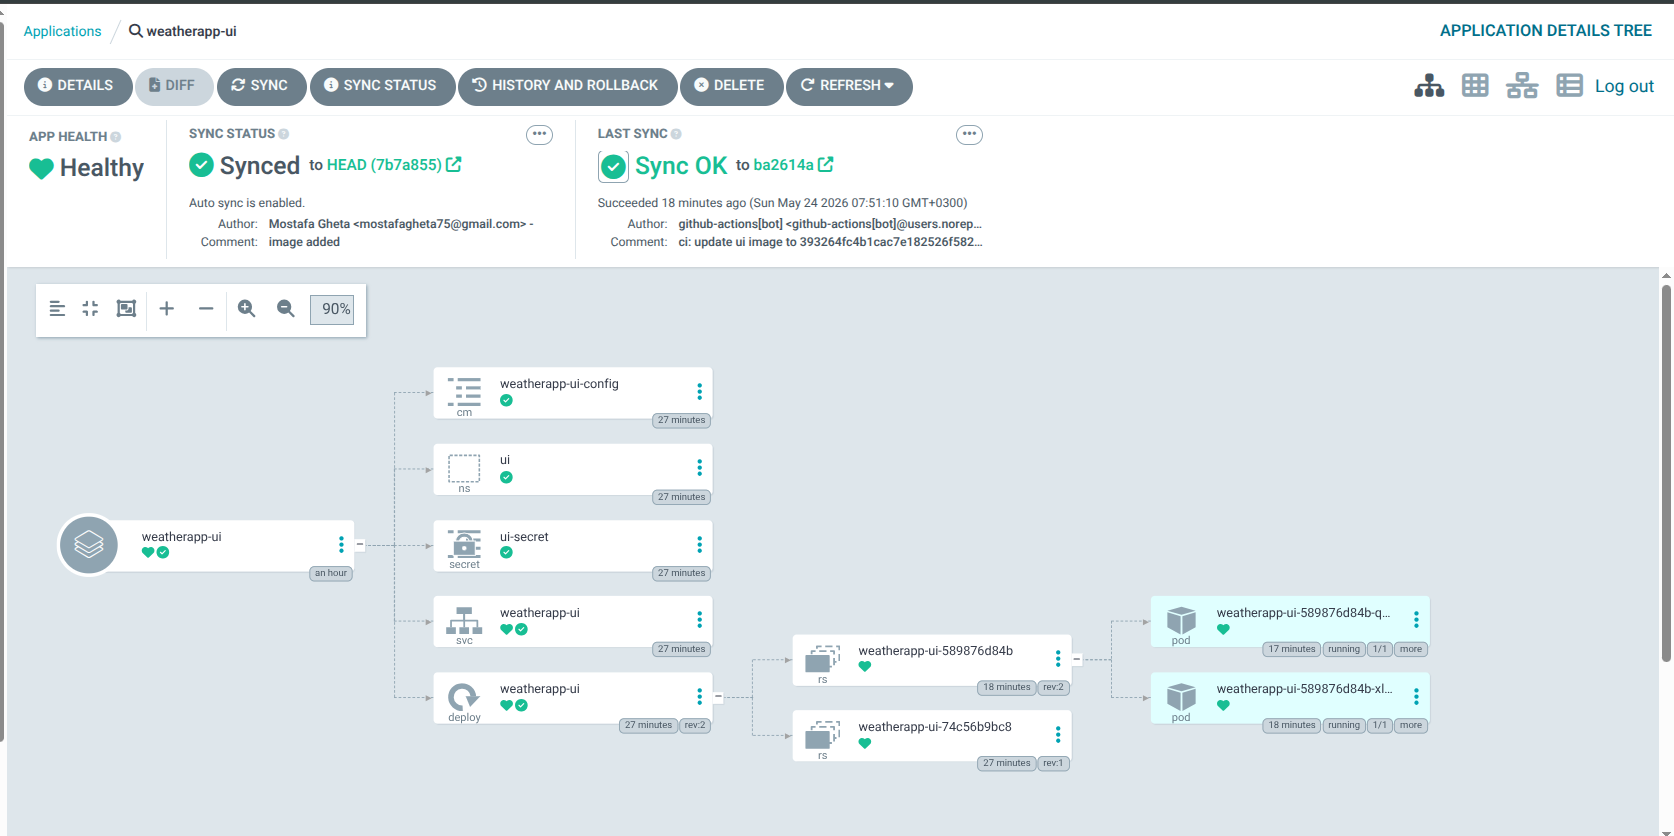
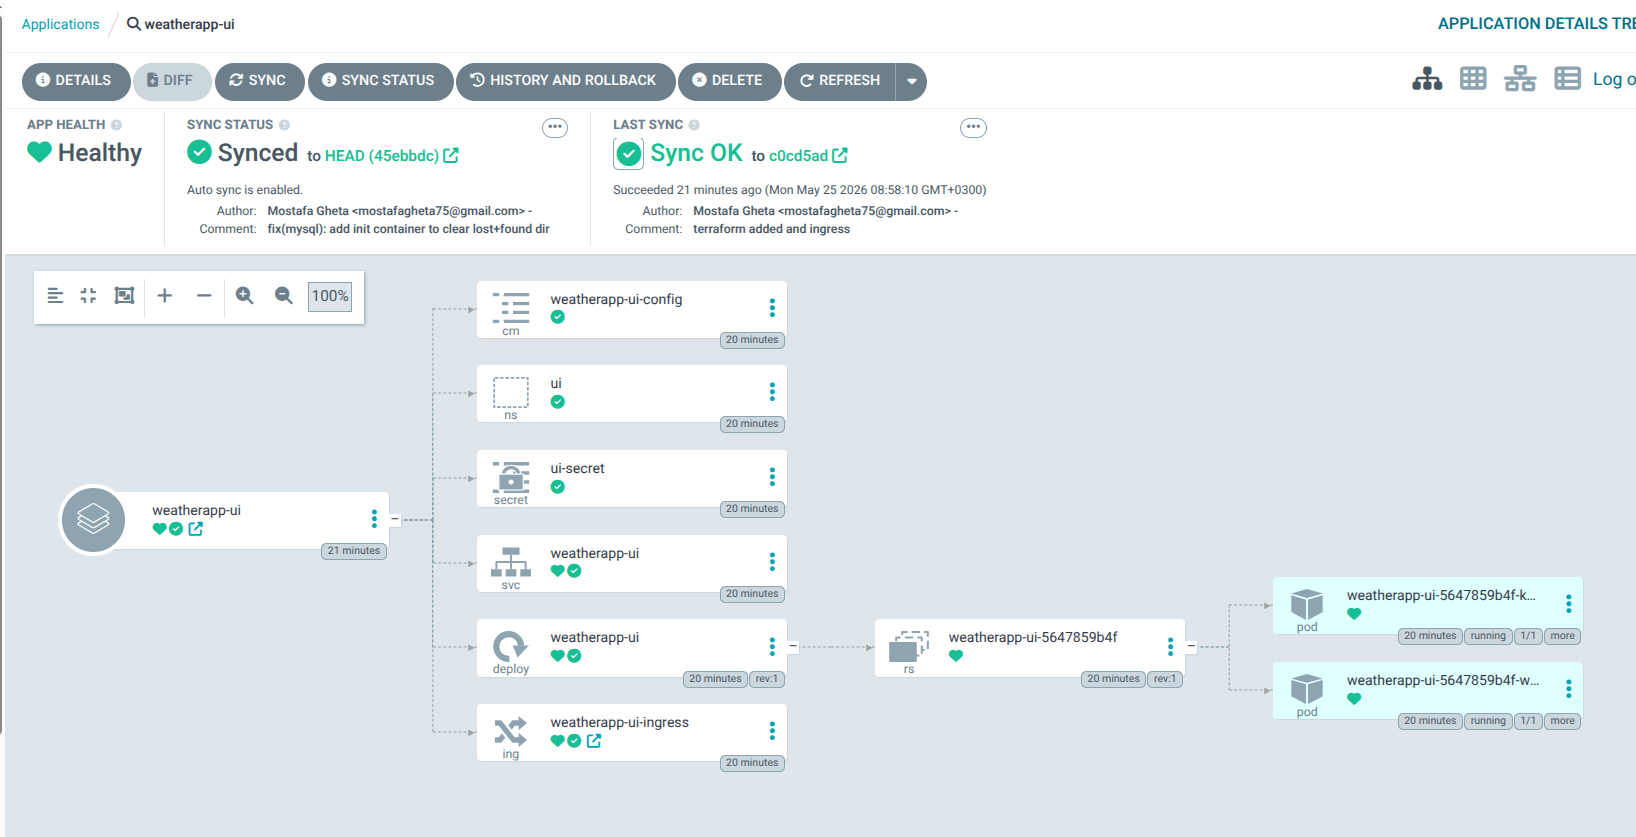
readme added

Changed region(s): [[0.0, 0.0, 1.0, 1.0], [0.2494, 0.4354, 0.3741, 0.4976], [0.5611, 0.1555, 0.5923, 0.1866]]

diff --git a/README.md b/README.md
@@ -1,121 +1,111 @@
-## WeatherApp (DevOps Project 4)
+# 🌦 WeatherApp: Advanced DevSecOps & Cloud-Native Deployment
 
-![Architecture](images/image.png)
+[![Architecture](images/image.png)](images/image.png)
 
-Overview
---------
-This repository contains a small multi-service Weather application used for DevOps exercises. It demonstrates service separation, containerization, CI/CD pipelines (GitHub Actions), static analysis (SonarQube), dependency scanning (OWASP Dependency-Check and Trivy), and Kubernetes manifests for deploying the services.
+A comprehensive, multi-service weather application demonstration project. This project showcases a modern cloud-native architecture, leveraging **Infrastructure as Code (Terraform)**, **DevSecOps Pipeline automation (GitHub Actions)**, and **GitOps-driven deployment (ArgoCD)** on **Google Kubernetes Engine (GKE)**.
 
-Services
---------
-- auth (Go): User authentication service that manages users and issues JWTs.
-  - Source: `auth/main/main.go`
-  - DB helper: `auth/authdb/authdb.go`
-  - Dockerfile: `auth/Dockerfile` (multi-stage build: golang builder -> minimal alpine runtime)
+---
 
-- UI (Node.js / Express): Frontend server serving static pages and interacting with auth and weather services.
-  - Source: `UI/app.js`, static UI in `UI/public`
-  - Package manifest: `UI/package.json`
-  - Dockerfile: `UI/Dockerfile`
+## 🏗 Architecture Overview
 
-- weather (Python / Flask): A small service that calls a third-party Weather API (RapidAPI) and returns current weather data.
-  - Source: `weather/main.py`
-  - Dependencies: `weather/requirements.txt`
+The application follows a microservices pattern, designed for scalability and separation of concerns:
 
-- mysql-init: SQL initialization script for MySQL used in local K8s / Docker environments.
-  - `mysql-init/init.sql` creates the `weatherapp` schema and `users` table.
+-   **Frontend (UI):** A Node.js & Express application providing a responsive dashboard for users.
+-   **Authentication (Auth):** A high-performance Go service managing user sessions and JWT-based security.
+-   **Weather Core:** A Python/Flask microservice that interacts with third-party Weather APIs (RapidAPI).
+-   **Database:** A Managed MySQL instance (via StatefulSet) for secure data persistence.
 
-Kubernetes manifests
---------------------
-Kubernetes manifests for each service live under `kubernetes/` and `K8S/` directories (the repo contains multiple K8s folders used for different deployment flows). Example manifests used in CI/CD are under `kubernetes/`:
+---
 
-- `kubernetes/authentication/deployment.yaml` and `service.yaml` — deployment/service for the auth service
-- `kubernetes/ui/*` — UI deployment/service/ingress
-- `kubernetes/weather/*` — weather deployment and service
+## 🛠 Technology Stack
 
-CI / CD (GitHub Actions)
-------------------------
-There are two main workflows in `.github/workflows/`:
+| Category | Tools & Technologies |
+| :--- | :--- |
+| **Cloud Provider** | Google Cloud Platform (GCP) |
+| **Infrastructure** | Terraform, Google Kubernetes Engine (GKE), VPC, Subnets |
+| **Microservices** | Go, Node.js (Express), Python (Flask) |
+| **Containerization** | Docker, Docker Hub |
+| **CI/CD** | GitHub Actions |
+| **GitOps** | ArgoCD, ArgoCD Image Updater |
+| **Security Scanning** | SonarQube, Trivy (Image Scan), OWASP Dependency-Check |
+| **Networking** | NGINX Ingress Controller, ClusterIP Services |
 
-- `ui-service.yml` — Serial pipeline for the UI service with these jobs:
-  1. build-and-test (npm ci, build, placeholder test)
- 2. sonar-scan (SonarQube analysis)
- 3. dependency-check (OWASP Dependency-Check)
- 4. docker-build (build Docker image, save as artifact)
- 5. trivy-scan (download artifact, docker load, scan image; uploads JSON report)
- 6. docker-push (download artifact, docker load, push to Docker Hub)
- 7. update-manifests (update K8s manifest image tags on `main`)
+---
 
-- `auth-service.yml` — Mirrors the UI pipeline but for the Go `auth` service:
-  - build-and-test (setup-go, go mod download, go build, go test)
-  - sonar-scan
-  - dependency-check
-  - docker-build (build image and save artifact)
-  - trivy-scan (download, load, scan, upload report)
-  - docker-push
+## 🚀 DevSecOps Pipeline
 
-CI Security & Diagnostics
-------------------------
-- Sonar: Workflows include SonarQube steps and print `.scannerwork/report-task.txt` for troubleshooting if the scanner fails to upload results.
-- Trivy: Workflows save the built Docker image as an artifact and load it into subsequent jobs. This avoids problems where Trivy can't find the image in the runner or pull remote images (MANIFEST_UNKNOWN). Trivy JSON reports are uploaded as job artifacts named `trivy-report` (UI) and `trivy-report-auth` (auth).
-- OWASP Dependency-Check: Runs on the project directory and uploads an HTML report as an artifact.
+The project implements a robust "Shift-Left" security approach through automated GitHub Actions pipelines for every service.
 
-Security remediation performed
-----------------------------
-- UI (Node.js):
-  - Added placeholder `build` and `test` scripts so CI/sonar steps run reliably.
-  - Ran `npm audit` and applied fixes, including `npm audit fix --force` to resolve transitive high/critical vulnerabilities. Key direct dependencies were updated (e.g., `axios`, `jsonwebtoken`) and `package-lock.json` was updated and committed.
+### Pipeline Stages:
+1.  **Build & Test:** Multi-stage Docker builds to ensure minimal footprint and high performance.
+2.  **Static Analysis (SAST):** Deep code inspection via **SonarQube** to identify bugs and code smells.
+3.  **SCA Scanning:** **OWASP Dependency-Check** scans libraries for known vulnerabilities.
+4.  **Container Auditing:** **Trivy** performs vulnerability scans on final Docker images.
+5.  **Automated Tagging:** Seamless push to Docker Hub with unique commit-based tags.
+6.  **Manifest Automation:** Automated updates to Kubernetes manifests in the repository to trigger GitOps sync.
 
-- Auth (Go):
-  - Replaced the old `dgrijalva/jwt-go` usage by adding `github.com/golang-jwt/jwt/v4` in `auth/go.mod`.
-  - Bumped `github.com/gin-contrib/cors` to `v1.6.0` to address known CVEs.
-  - Upgraded `golang.org/x/crypto` and `golang.org/x/net` to more recent versions (see `auth/go.mod`).
-  - Fixed a malformed `go` directive (`go 1.23.0` → `go 1.23`) so `go mod download` and CI builds run correctly.
+````carousel
+![SonarQube Results](images/image%20copy%204.png)
+<!-- slide -->
+![Trivy Scan Results](images/image%20copy%205.png)
+<!-- slide -->
+![Dependency Check](images/image%20copy%206.png)
+````
 
-Security TODOs (recommended, not yet implemented)
-------------------------------------------------
-- Replace MD5 password hashing in `auth/authdb/authdb.go` with bcrypt or Argon2.
-- Avoid building SQL via `fmt.Sprintf` — use prepared statements to prevent SQL injection.
-- Update JWT usages to the v4 API (`jwt.NewWithClaims`, `jwt.RegisteredClaims`) and enforce explicit signing methods.
+---
 
-How to run locally (quickstart)
--------------------------------
-1. Start a MySQL instance (e.g., Docker) and initialize the schema with `mysql-init/init.sql`.
+## ☸ GitOps Deployment (ArgoCD)
 
-2. Run the auth service locally (in `auth/`):
+Deployment is strictly managed via **ArgoCD**, ensuring the cluster state always matches the repository's configuration.
+
+-   **Automated Sync:** Automated `prune` and `self-heal` policies for high availability.
+-   **Image Updater:** Automatically detects new Docker Hub images and propagates them to the K8s manifests via Git commits.
+-   **Namespace Isolation:** Separate namespaces for `ui`, `authentication`, and `weather`.
+
+![ArgoCD Dashboard](images/image%20copy%207.png)
+
+---
+
+## 🛠 Recent Infrastructure Enhancements
+
+We have recently upgraded the production-readiness of the deployment:
+
+1.  **Traffic Routing:** Implemented an **NGINX Ingress Controller** for the UI, moving away from `NodePort` to a more secure `ClusterIP` architecture with centralized ingress.
+2.  **GKE Storage Fix:** Resolved a critical MySQL initialization error in GKE. Automated the cleanup of the system-generated `lost+found` directory via a dedicated `initContainer` in the StatefulSet, ensuring smooth database booting on persistent volumes.
+3.  **Security Patches:** Upgraded vulnerable Go JWT libraries and Node.js dependencies identified during SCA scanning.
+
+---
+
+## 🏁 Getting Started & Deployment
+
+### 1. Infrastructure Provisioning
+Navigate to the `Terraform/` directory and apply the configuration to spin up the GKE cluster:
 ```bash
-cd auth
-go mod tidy
-go build ./...
-./app # or go run ./main
+terraform init
+terraform plan
+terraform apply
 ```
 
-3. Run the weather service (in `weather/`):
+### 2. Configure Ingress
+Ensure the NGINX Ingress Controller is installed in your cluster. The UI Ingress is pre-configured in `K8S/ui/ingress.yaml`.
+
+### 3. ArgoCD Installation
+Deploy the application manifests using the ArgoCD definitions found in the `argocd/` directory:
 ```bash
-cd weather
-python3 -m venv venv && source venv/bin/activate
-pip install -r requirements.txt
-python main.py
+kubectl apply -f argocd/weather-app.yaml
 ```
 
-4. Run the UI (in `UI/`):
-```bash
-cd UI
-npm ci
-npm start
-```
+---
 
-CI Secrets (set these in your repository settings)
-------------------------------------------------
-- `SONAR_TOKEN`, `SONAR_HOST_URL` — SonarQube authentication and host
-- `DOCKERHUB_USERNAME`, `DOCKERHUB_TOKEN` — For pushing images
-- `APIKEY` — RapidAPI key used by the `weather` service (for local runs, set in env)
+## 📸 Project Gallery
 
-Notes and caveats
------------------
-- Docker image base selection impacts Trivy results: `node:20-alpine` and `alpine:latest` are used; image-level OS CVEs may still surface in Trivy scans depending on upstream patches.
-- `auth/authdb/authdb.go` currently uses MD5 hashing and unparameterized SQL — this is insecure for production and should be refactored (see TODOs above).
+````carousel
+![Service Dashboard](images/image%20copy%208.png)
+<!-- slide -->
+![Infrastructure Overview](images/image%20copy%209.png)
+<!-- slide -->
+![Network Topology](images/image%20copy%2010.png)
+````
 
-License
--------
-This project has no explicit license file. Add a LICENSE if you plan to open-source it.
+---
+*Created by [Mostafa Gheta](https://github.com/mostafagheta)*
